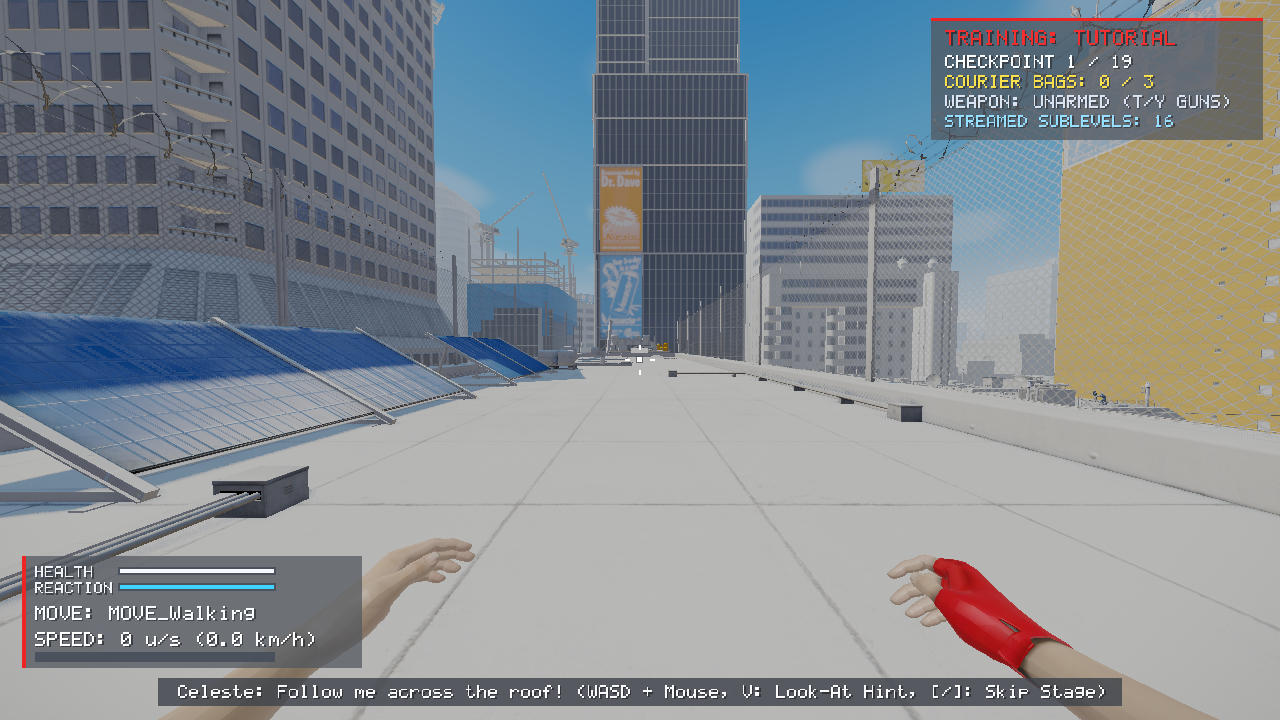
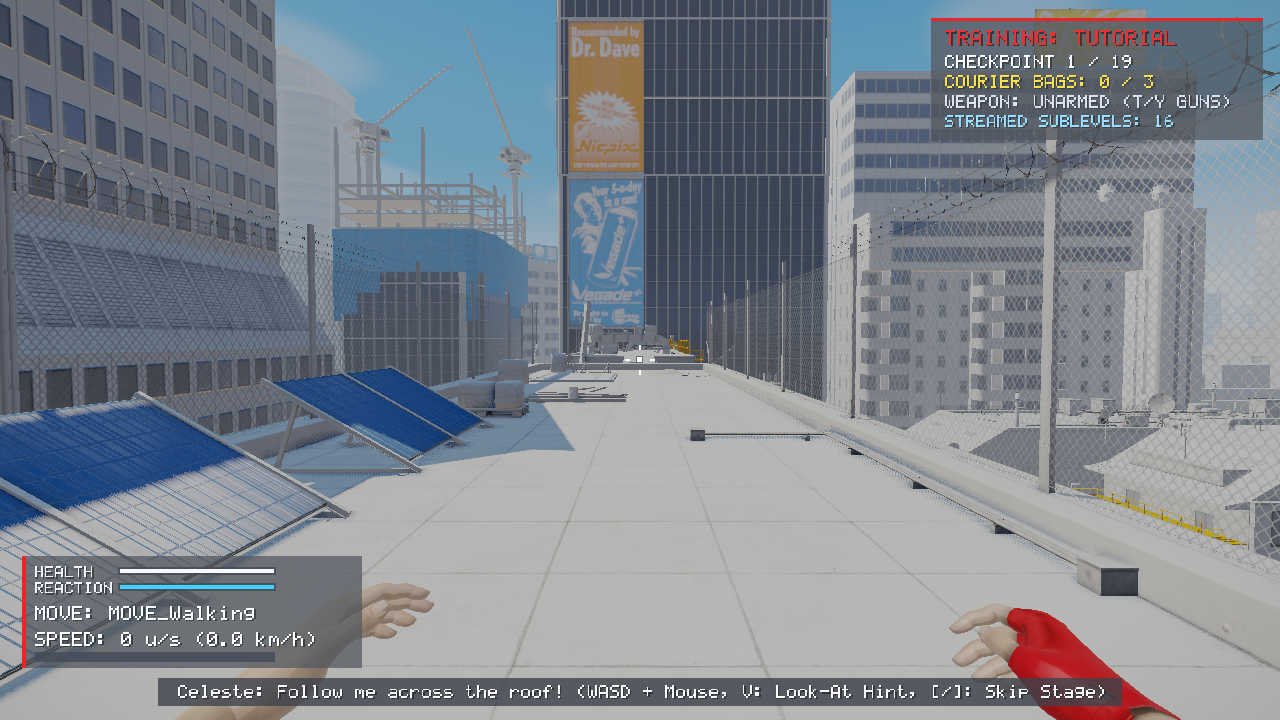
Set default camera FOV to original Mirror's Edge 90° horizontal FOV (FOVAngle=90)

diff --git a/src/renderer/metal_renderer.mm b/src/renderer/metal_renderer.mm
@@ -2197,7 +2197,7 @@ void MetalRenderer::render_frame(const LevelScene& scene, const PlayerTelemetry&
             const MenuChapterEntry& cam_ch = impl_->main_menu.get_chapter(impl_->selected_chapter);
             cam_pos = cam_ch.camera_location;
             rot = cam_ch.camera_rotation;
-            fov_deg = 70.0f;
+            fov_deg = 90.0f;
             near_plane = 10.0f;
             far_plane = 400000.0f;
         }
@@ -2209,13 +2209,15 @@ void MetalRenderer::render_frame(const LevelScene& scene, const PlayerTelemetry&
 
         Mat4 view = Mat4::look_at(cam_pos, target, up);
         float aspect = float(impl_->width) / float(impl_->height);
-        float fov_rad = fov_deg * DEG2RAD;
-        Mat4 proj = Mat4::perspective(fov_rad, aspect, near_plane, far_plane);
+        float fov_h_rad = fov_deg * DEG2RAD;
+        float fov_y_rad = 2.0f * std::atan(std::tan(fov_h_rad * 0.5f) / aspect);
+        Mat4 proj = Mat4::perspective(fov_y_rad, aspect, near_plane, far_plane);
         Mat4 vp = proj * view;
 
-        // Viewmodel camera matrix
+        // Viewmodel camera matrix (DefaultGame.ini Model1pFOV = 100 horizontal)
         Mat4 vm_view = Mat4::look_at(Vec3(0, 0, 0), Vec3(0, 100.0f, 0), Vec3(0, 0, 1));
-        Mat4 vm_proj = Mat4::perspective(80.0f * DEG2RAD, aspect, 1.0f, 500.0f);
+        float vm_fov_y_rad = 2.0f * std::atan(std::tan(100.0f * DEG2RAD * 0.5f) / aspect);
+        Mat4 vm_proj = Mat4::perspective(vm_fov_y_rad, aspect, 1.0f, 500.0f);
         Mat4 vm_vp = vm_proj * vm_view;
 
         // Pack frame uniforms
@@ -2241,7 +2243,7 @@ void MetalRenderer::render_frame(const LevelScene& scene, const PlayerTelemetry&
         uniforms.is_runner_vision = 0.0f;
 
         uniforms.cam_forward = simd_make_float3(fwd.x, fwd.y, fwd.z);
-        uniforms.fov_tan = std::tan(fov_rad * 0.5f);
+        uniforms.fov_tan = std::tan(fov_y_rad * 0.5f);
         uniforms.cam_right = simd_make_float3(right.x, right.y, right.z);
         uniforms.aspect = aspect;
         uniforms.cam_up = simd_make_float3(up.x, up.y, up.z);

diff --git a/src/physics/parkour_controller.cpp b/src/physics/parkour_controller.cpp
@@ -157,7 +157,7 @@ void ParkourController::reset(const Vec3& spawn_pos, float spawn_yaw) {
     m_telemetry.yaw_deg = spawn_yaw;
     m_telemetry.pitch_deg = 0.0f;
     m_telemetry.camera_roll_deg = 0.0f;
-    m_telemetry.fov_deg = 100.0f;
+    m_telemetry.fov_deg = 90.0f;
     m_telemetry.eye_height = kEyeHeightStand;
     m_telemetry.health = 100.0f;
     m_telemetry.reaction_energy = 100.0f;
@@ -556,9 +556,9 @@ void ParkourController::step(const InputFrame& input, float dt, LevelScene& scen
     m_telemetry.speed_2d = m_telemetry.velocity.length_xy();
     m_telemetry.speed_3d = m_telemetry.velocity.length();
 
-    // Dynamic FOV scaling: 100° at base, up to 108° at full sprint
+    // Dynamic FOV scaling: 90° horizontal at base (BaseEngine.ini FOVAngle=90), up to 98° at full sprint
     float speed_ratio = std::clamp((m_telemetry.speed_2d - m_config.run_speed) / (m_config.sprint_speed - m_config.run_speed), 0.0f, 1.0f);
-    m_telemetry.fov_deg = 100.0f + 8.0f * speed_ratio;
+    m_telemetry.fov_deg = 90.0f + 8.0f * speed_ratio;
 }
 
 // -----------------------------------------------------------------------------

diff --git a/src/main.mm b/src/main.mm
@@ -227,7 +227,7 @@ static int run_oracle_verification(const std::string& game_root, const std::stri
     const float s1_speed = controller.get_telemetry().speed_2d;
     const float s1_fov = controller.get_telemetry().fov_deg;
     const float s1_z = controller.get_position().z;
-    bool s1_pass = (s1_speed >= 400.0f) && (s1_fov > 100.0f) && controller.is_grounded() &&
+    bool s1_pass = (s1_speed >= 400.0f) && (s1_fov > 90.0f) && controller.is_grounded() &&
                    std::abs(s1_z - sp00_scene.player_spawn_pos.z) < 1.0f;
     std::cout << "  -> Stage 1 Result: " << (s1_pass ? "PASS" : "FAIL")
               << " (Speed=" << s1_speed << " u/s, FOV=" << s1_fov << "°, Roof Z=" << s1_z << ")" << std::endl;

diff --git a/src/math/types.hpp b/src/math/types.hpp
@@ -942,7 +942,7 @@ struct PlayerTelemetry {
     float yaw_deg = 0.0f;
     float pitch_deg = 0.0f;
     float camera_roll_deg = 0.0f;
-    float fov_deg = 100.0f;
+    float fov_deg = 90.0f;
     float eye_height = 166.0f;  // TdPawn: centre 90 + BaseEyeHeight 76 above the feet
     float health = 100.0f;
     float reaction_energy = 100.0f;
